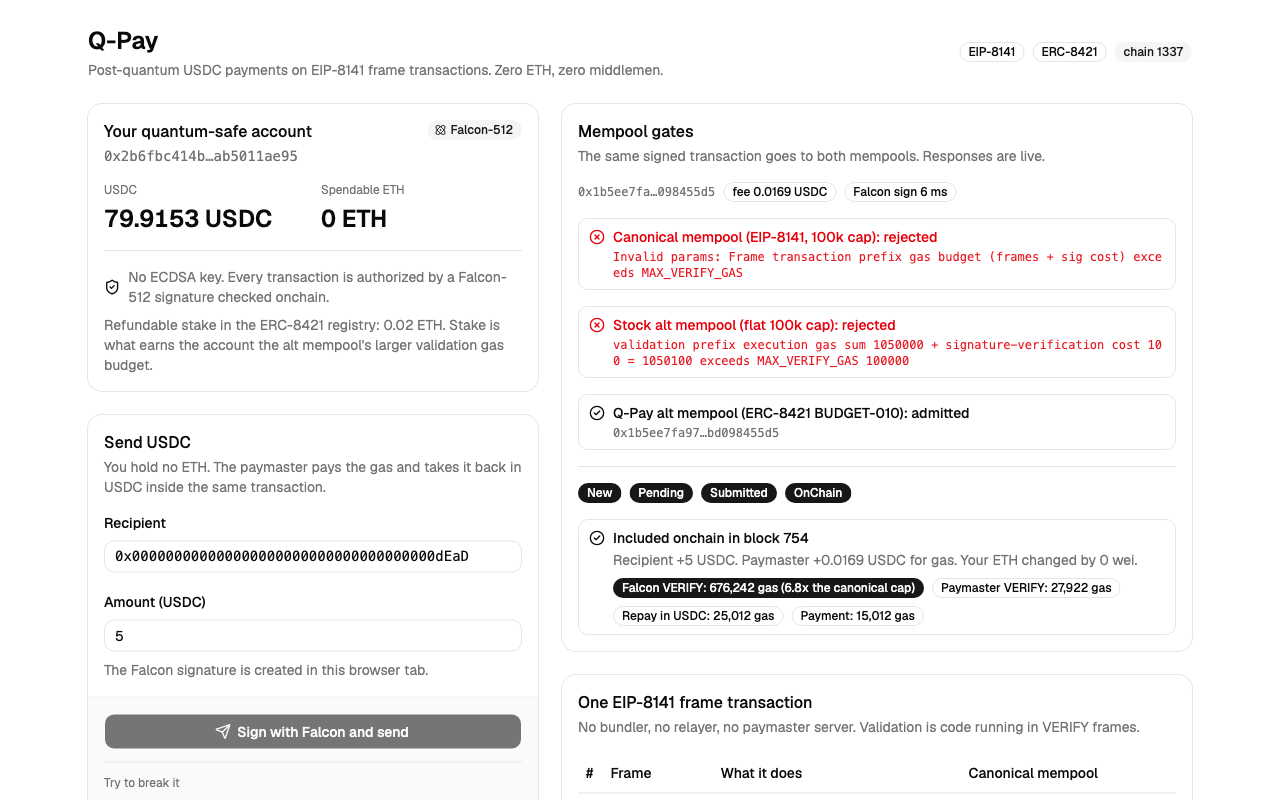
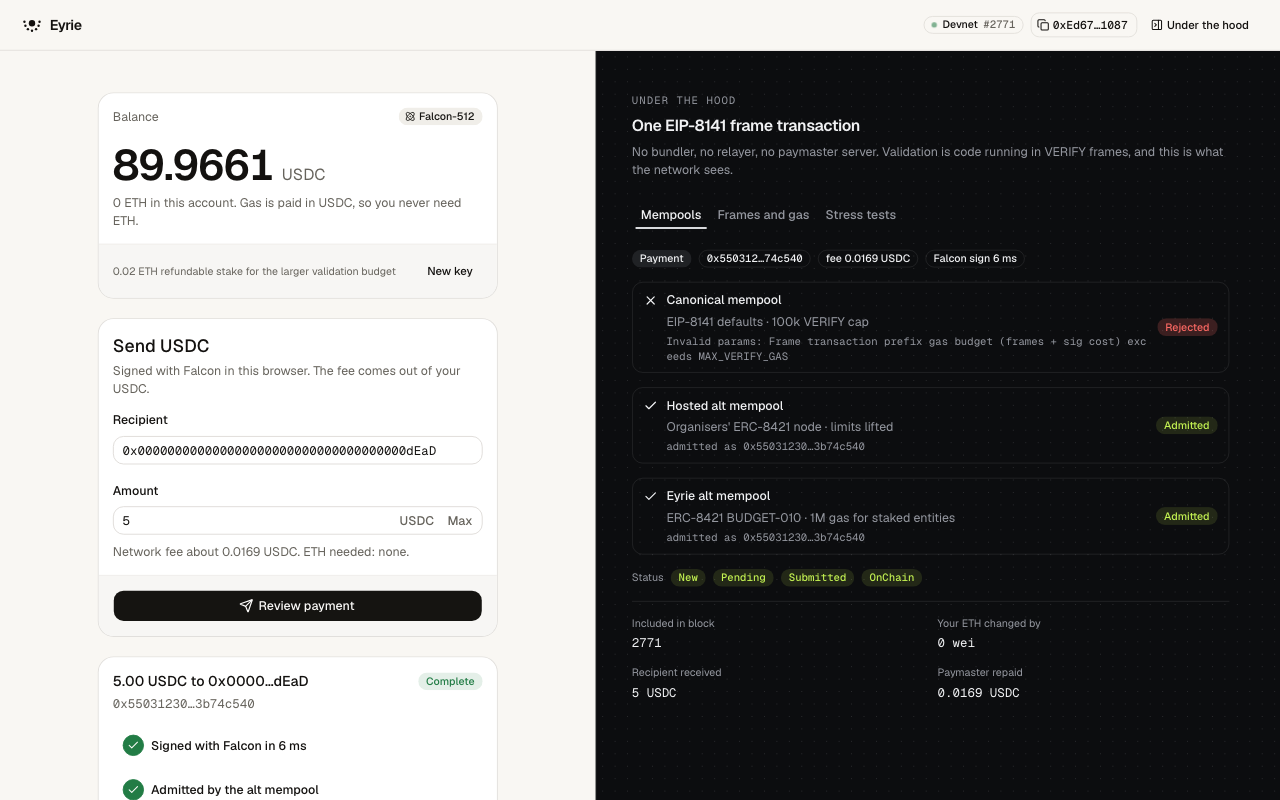
docs: rename to eyrie, new screenshots, demo script for the new ui
also: hero panel no longer covers the receipt, rejected runs say they never hit a block.

diff --git a/app/src/components/landing/hero.tsx b/app/src/components/landing/hero.tsx
@@ -70,7 +70,7 @@ export function Hero() {
               <Badge variant="success">Complete</Badge>
             </CardFooter>
           </Card>
-          <div className="dark -mt-6 ml-auto w-full max-w-sm rounded-xl border bg-background bg-lattice p-4 text-foreground shadow-2xl lg:-mr-6">
+          <div className="dark mt-4 ml-auto w-full max-w-sm rounded-xl border bg-background bg-lattice p-4 text-foreground shadow-2xl lg:-mr-6">
             <div className="mb-3 flex items-center justify-between">
               <span className="font-mono text-[11px] tracking-widest text-muted-foreground uppercase">Under the hood</span>
               <span className="font-mono text-[11px] text-muted-foreground">Falcon VERIFY {proof.falconGas.toLocaleString()} gas</span>

diff --git a/app/src/components/wallet/transfer-status.tsx b/app/src/components/wallet/transfer-status.tsx
@@ -21,7 +21,13 @@ function steps(run: Run, phase: RunPhase): { title: string; state: StepState }[]
       state: phase === "rejected" ? "failed" : admitted || phase === "reverted" ? "done" : "active",
     },
     {
-      title: run.included ? `Included in block ${run.included.block}` : phase === "reverted" ? "Reverted onchain" : "Included in a block",
+      title: run.included
+        ? `Included in block ${run.included.block}`
+        : phase === "reverted"
+          ? "Reverted onchain"
+          : phase === "rejected"
+            ? "Never reached a block"
+            : "Included in a block",
       state: phase === "included" ? "done" : phase === "reverted" ? "failed" : phase === "pending" ? "active" : "todo",
     },
   ]

diff --git a/docs/demo.md b/docs/demo.md
@@ -1,8 +1,8 @@
 # Demo script (4 minutes, plus 3 minutes of Q&A)
 
 **Setup before going on stage:**
-- The sidecar is running (`./devnet/sidecar.sh`) and the app is running (`pnpm app`). Both are pointed at `https://altmempool.forshtat.com`.
-- Browser tab 1: http://localhost:5180
+- The sidecar and tunnel are running detached (see `docs/runbook.md`). The app is live at https://qpay-psi.vercel.app.
+- Browser tab 1: https://qpay-psi.vercel.app (the landing page). Click **Open app** once beforehand so an account exists, then go back.
 - Browser tab 2: the explorer, open on the last transaction (link in the README).
 - Run `pnpm send` once to warm up. Check the account shows USDC and 0 ETH.
 - Backup: the recorded video (`docs/media/`, made on the day).
@@ -13,26 +13,30 @@
 
 ## 0:30 to 1:00. The account
 
-Show the account card: Falcon-512, **0 ETH**, the USDC balance, and 0.02 ETH of refundable stake.
+Scroll the landing page once: the hero, the four-frame diagram, and the gas bars (100k cap, 724k Falcon, 1M staked budget). Click **Open app**.
+
+Show the balance card: Falcon-512, **0 ETH**, the USDC balance, and 0.02 ETH of refundable stake. The dark panel on the right is "Under the hood": what the network sees.
 
 > "No ECDSA key exists for this account. Its only rule is a Falcon-512 signature, checked by code in its own VERIFY frame."
 
-Point at the frames table. There are four frames. Two VERIFY frames are the validation, and two SENDER frames are the gas repayment and the payment. There is no bundler, no relayer and no paymaster server.
+Open the **Frames and gas** tab. There are four frames. Two VERIFY frames are the validation, and two SENDER frames are the gas repayment and the payment. There is no bundler, no relayer and no paymaster server.
 
 ## 1:00 to 2:15. Send
 
-Press **Sign with Falcon and send**. While it runs:
+Switch back to **Mempools**. Press **Review payment**: the dialog shows the fee in USDC and "ETH spent 0". Press **Sign and send**. While it runs:
 
 > "The browser just signed with Falcon in a few milliseconds. The same signed transaction now goes to three mempools."
 
 Read out the three gates as they fill in:
 1. **Canonical, rejected.** "Prefix gas budget exceeds MAX_VERIFY_GAS. That's EIP-8141's 100k rule."
-2. **Stock ERC-8421 alt mempool, rejected.** "1,050,100 exceeds 100,000. Even today's alt mempool can't take any post-quantum signature, because it uses one flat cap."
-3. **Our alt mempool, admitted, then OnChain.** "We implemented the ERC-8421 draft's per-entity budget. The staked account gets up to 1M, and the unstaked paymaster stays under 100k. We sent it upstream as a PR."
+2. **Hosted alt mempool, admitted.** "The organisers lifted all validation limits on this node mid-event. Before that it rejected us with '1,050,100 exceeds 100,000', and the explorer still has that record. Unlimited isn't a rule a public mempool can keep."
+3. **Eyrie alt mempool, admitted, then OnChain.** "Ours admits it under a bounded budget. We implemented the ERC-8421 draft's per-entity budget. The staked account gets up to 1M, and the unstaked paymaster stays under 100k. We sent it upstream as a PR."
 
-The result alert shows the recipient +5 USDC, the paymaster about +0.017 USDC for gas, and **ETH changed by 0 wei**.
+The receipt card on the left shows sent 5 USDC, fee about 0.017 USDC, and **ETH spent 0 wei**. The inspector shows the block and per-frame gas; the Frames tab now shows this transaction's measured gas against the 100k cap line.
 
 ## 2:15 to 3:00. Try to break it
+
+Open the **Stress tests** tab in the inspector.
 
 - **Tamper signature.** The transaction is rejected at frame 0 with `BadFalconSignature()`. Nothing is charged, and the balance is unchanged.
 - **Underpay gas fee.** The transaction is rejected at frame 1 with `FeeTooLow(fee, quote)`. The paymaster's rule is enforced by code, not by a server.
@@ -43,7 +47,7 @@ Switch to the explorer tab. Show the stock node's rejection record for our trans
 
 ## 3:40 to 4:00. Close
 
-> "Q-Pay is a post-quantum USDC wallet with zero ETH and no middlemen. It works today on the public devnet because the alt mempool can admit expensive validation for staked accounts. That's the exact case the EF prize describes. Our BUDGET-010 patch is the piece that makes it possible."
+> "Eyrie is a post-quantum USDC wallet with zero ETH and no middlemen. It works today on the public devnet because the alt mempool can admit expensive validation for staked accounts. That's the exact case the EF prize describes. Our BUDGET-010 patch is the piece that makes it possible."
 
 ## Likely questions
 

diff --git a/docs/submission.md b/docs/submission.md
@@ -2,7 +2,7 @@
 
 ## Project name
 
-Q-Pay
+Eyrie
 
 ## Short description (one line)
 
@@ -22,8 +22,8 @@ That validation can't get into any mempool that exists today. The canonical memp
 
 The app sends the same signed transaction to three places and shows the live response from each:
 - the canonical mempool rejects it;
-- the stock alt mempool rejects it;
-- ours admits it, and it lands on the public devnet.
+- the organisers' hosted alt mempool admits it now that the devnet's validation limits were lifted mid-event (before that it rejected it, and the official explorer still shows that record);
+- ours admits it under a bounded, stake-gated budget, and it lands on the public devnet.
 
 The app then shows the per-frame gas from the receipt. A tampered signature is rejected in VERIFY, and so is an underpaid fee. Nothing is charged in either case.
 
@@ -39,7 +39,7 @@ The app then shows the per-frame gas from the receipt. A tampered signature is r
   - Verification uses ZKNOX ETHFALCON's experimental `falcon_core8`, behind an ERC-7913-style adapter we wrote.
   - A converter contract turns the signer's coefficient-domain key into the verifier's NTT-domain key once, with a free `eth_call`.
 - **Mempool:** a fork of forshtat/mempool-workshop-sidecar with ERC-8421 BUDGET-010, meaning per-entity gas sums, a staked ceiling, and a stake check. It relays admitted transactions to ethrex through `ethrex_submitPrivilegedFrameTransaction`.
-- **Client:** a TypeScript frame-transaction builder on the devnet's wire layout. In it, the Falcon signature sits in an ARBITRARY signature entry, which is left out of the signature hash. The client is built with viem, Vite, React and shadcn/ui.
+- **Client:** a TypeScript frame-transaction builder on the devnet's wire layout. In it, the Falcon signature sits in an ARBITRARY signature entry, which is left out of the signature hash. The client is built with viem, Vite, React, shadcn/ui on Base UI, and Motion. It has a landing page and the app: a light wallet surface plus a dark "under the hood" inspector that shows the live mempool verdicts, per-frame gas against the 100k cap, and stress tests.
 - **Infrastructure:**
   - The demo runs on the public alt-mempool devnet (chain 1337).
   - We also have a local fallback devnet: ethrex plus Lighthouse through Kurtosis.
@@ -47,7 +47,7 @@ The app then shows the per-frame gas from the receipt. A tampered signature is r
 
 ## Partner prize: Ethereum Foundation, Best use of the Frame Transaction Alternative Mempool
 
-**How we used it.** Q-Pay needs both things the brief names:
+**How we used it.** Eyrie needs both things the brief names:
 - a verification budget well above 100k, for the post-quantum smart wallet;
 - flexible paymaster state access, for the ERC-20 paymaster.
 
@@ -64,6 +64,7 @@ Both are in one transaction. The canonical mempool rejects it. We admit it on th
 
 ## Links
 
+- Live app: https://qpay-psi.vercel.app
 - Repo: https://github.com/yashj09/qpay
 - Sidecar fork (BUDGET-010): https://github.com/yashj09/mempool-workshop-sidecar/tree/budget-010
 - Upstream PR: https://github.com/forshtat/mempool-workshop-sidecar/pull/2

diff --git a/README.md b/README.md
@@ -1,6 +1,8 @@
-# Q-Pay
+# Eyrie
 
 **Post-quantum USDC payments on EIP-8141 frame transactions. Zero ETH, zero middlemen.**
+
+Eyrie was called Q-Pay while we built it, so the repo, the contracts (`QPayAccount` and the rest) and the `@qpay/*` packages keep that name.
 
 A brand-new account that holds only USDC sends a payment. A **Falcon-512** signature authorizes it, and there is no ECDSA key anywhere. A permissionless paymaster pays the gas and takes it back **in USDC inside the same transaction**. There is no bundler, relayer or paymaster server: the validation rules are code running in VERIFY frames.
 
@@ -9,9 +11,11 @@ A brand-new account that holds only USDC sends a payment. A **Falcon-512** signa
 | **Canonical mempool** (EIP-8141) | **Rejects** it: the Falcon check costs about 0.7M gas, over the 100k validation cap, and the paymaster reads storage outside `tx.sender` |
 | **Alternative mempool** (ERC-8421) | **Admits** it, under the per-entity validation budget (BUDGET-010) we implemented in the sidecar: the staked account gets up to 1M, and the unstaked paymaster stays under 100k |
 
-Built at ETHGlobal Mumbai 2026 for the Ethereum Foundation "Best use of the Frame Transaction Alternative Mempool" prize. Its brief names PQ-secure smart wallets and ERC-20 paymasters. Q-Pay does both in one transaction.
+Built at ETHGlobal Mumbai 2026 for the Ethereum Foundation "Best use of the Frame Transaction Alternative Mempool" prize. Its brief names PQ-secure smart wallets and ERC-20 paymasters. Eyrie does both in one transaction.
 
-![Q-Pay app: three live mempool gates, the transaction included onchain, and per-frame gas](docs/media/app.png)
+![Eyrie app: the wallet on the left, the dark under-the-hood inspector with live mempool verdicts on the right](docs/media/app.png)
+
+![Eyrie landing page](docs/media/landing.png)
 
 ## Proof it runs on the public devnet
 
@@ -45,7 +49,7 @@ The devnet can be reset at any time. If it has been, `pnpm setup` and `pnpm send
 
 ## Live demo for judges
 
-**https://qpay-psi.vercel.app** creates your own post-quantum account in your browser and sends USDC with 0 ETH. The Falcon key never leaves your device. Our BUDGET-010 sidecar runs on the presenter's laptop behind a tunnel. If it's offline, the organisers' hosted alt mempool still carries the transaction.
+**https://qpay-psi.vercel.app** is the landing page. **https://qpay-psi.vercel.app/app** creates your own post-quantum account in your browser and sends USDC with 0 ETH. The Falcon key never leaves your device. Our BUDGET-010 sidecar runs on the presenter's laptop behind a tunnel. If it's offline, the organisers' hosted alt mempool still carries the transaction.
 
 **Is a 700k-gas VERIFY frame fair to mempool nodes and builders?** Yes, with measured numbers, and without breaking CROPS: see [docs/mempool-safety.md](docs/mempool-safety.md).
 

diff --git a/docs/decisions.md b/docs/decisions.md
@@ -23,3 +23,13 @@ Each entry gives the date, the decision, and why. Newest last.
 **The paymaster price is an immutable.** Its validation then reads no storage of its own. The only foreign storage it reads is the sender's MockUSDC balance, a slot associated with the sender.
 
 **Use a local devnet (Kurtosis: ethrex plus Lighthouse).** The hosted devnet has been stalled at block `0x63ac6` since Thu 5 Nov 22:58 UTC, and its docs say it may be reset at any time. On this Mac we run it through Colima with Rosetta, because ethrex ships only an amd64 image.
+
+## 6 Nov: product redesign
+
+**The product is now called Eyrie.** An eyrie is a falcon's nest, and Falcon-512 is the signature scheme. "Q-Pay" collided with existing payment brands (QPay in Qatar and Mongolia). Candidates we checked and dropped: PostQ (a post-quantum startup already uses it), Sigil (several crypto wallets), Kestrel (a Solana DeFi product), Trellis and Saker (domains and brands taken). Only the UI, README and submission text are renamed. The contracts, `@qpay/*` packages and repo keep the old name, because renaming deployed contracts would mean redeploying them for nothing.
+
+**Two visual layers: a light wallet and a dark "under the hood" inspector.** Users see a calm wallet. Judges see frames, gas and mempool verdicts. The inspector is open by default because that's what the EF prize is judged on. It reuses shadcn's `.dark` tokens by putting `className="dark"` on the panel, so there's one component set.
+
+**Libraries: shadcn/ui on Base UI plus Motion, nothing else.** No Radix (the project already uses Base UI primitives), no Magic UI or Aceternity (decorative effects read as generic), no router (two routes, and `/app` is lazy-loaded so the landing page ships no viem or Falcon code).
+
+**`lib/qpay.ts` only gained additive changes** (an onboarding progress callback and `estimateFee`), so the send path the judges use didn't change.

diff --git a/docs/progress.md b/docs/progress.md
@@ -18,4 +18,5 @@
 - [x] Explorer evidence: the official explorer shows the stock Gateway rejecting our transaction. The same transaction is onchain in block 726.
 - [x] App shows per-frame gas from the onchain receipt (Falcon VERIFY 676k–724k, 6.8–7.2x the canonical cap).
 - [x] README proof table and measured numbers, `docs/runbook.md`, `docs/demo.md`, `docs/submission.md`.
+- [x] Redesign as **Eyrie**: landing page at `/`, app at `/app` with a light wallet and a dark under-the-hood inspector (mempool verdicts, gas bars against the 100k cap, stress tests), onboarding stepper, review step, receipt and activity list. Verified on production in incognito: onboard, send included in block 2747 with 0 wei ETH spent, tamper rejected at frame 0.
 - [ ] Demo video (you record it), slides, and the dashboard submission.
